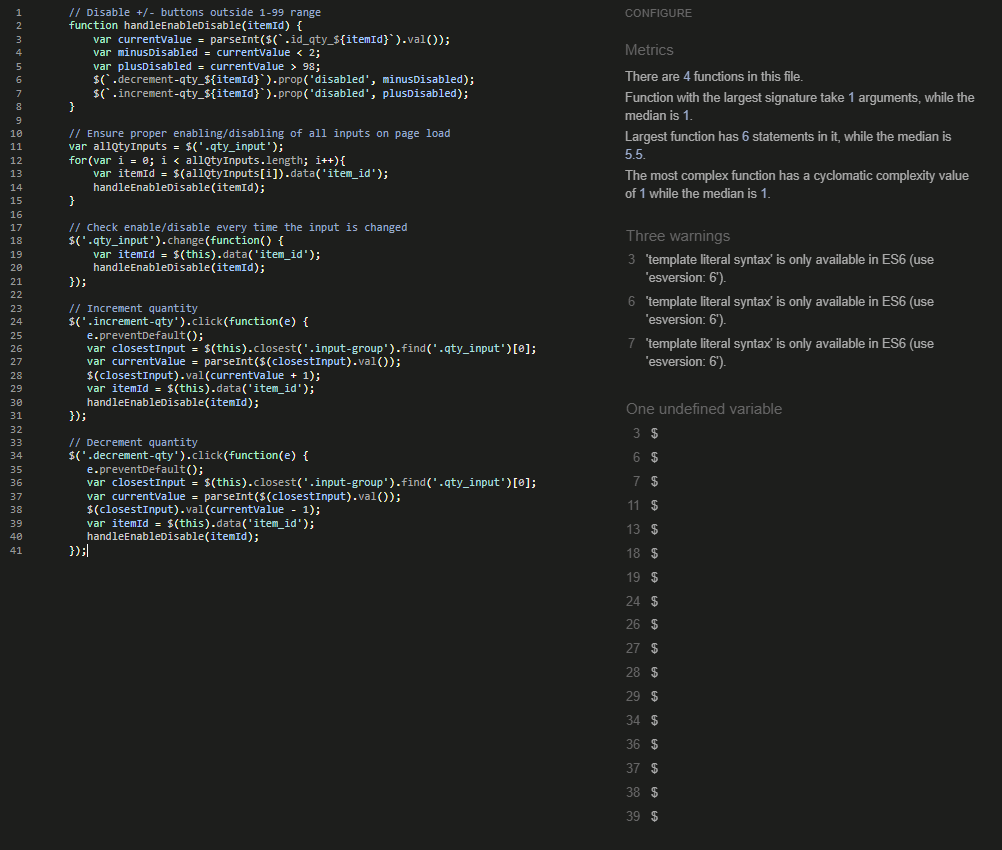
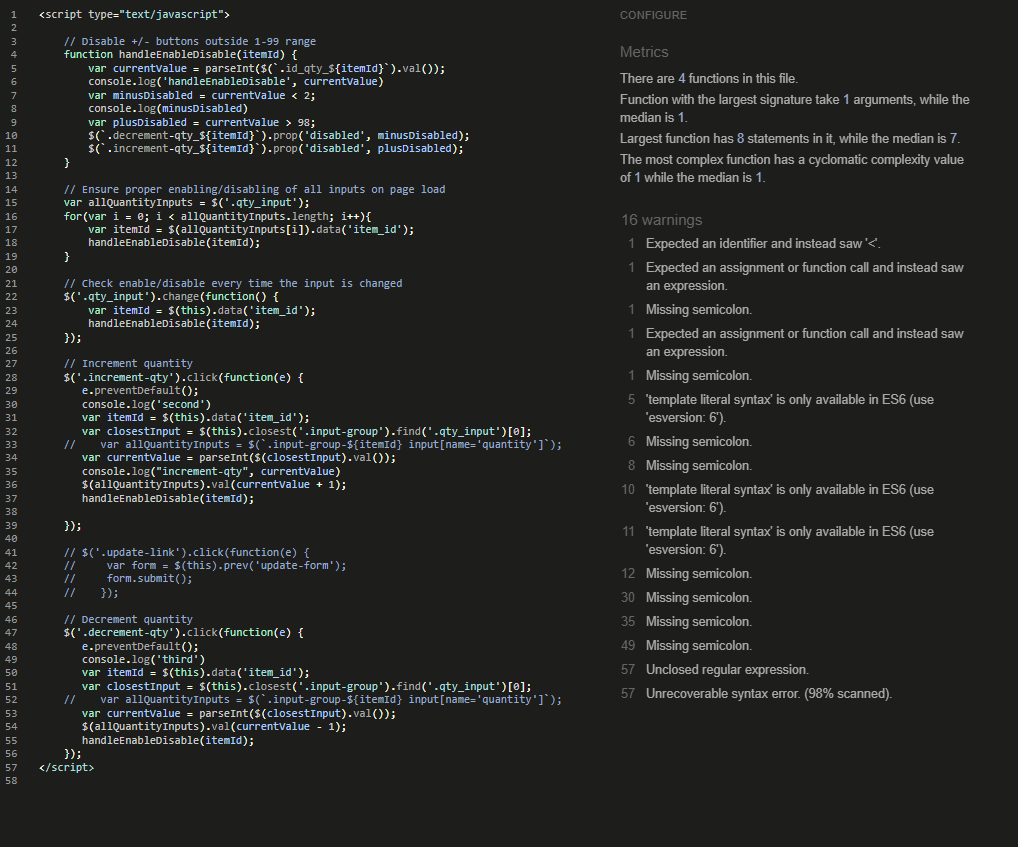
Bugfix: minus buttons on shopping bag page, readme deployment

Changed region(s): [[0.0, 0.0, 0.5259, 0.9209], [0.5878, 0.0, 0.99, 0.8288]]

diff --git a/products/templates/products/includes/quantity_input_script.html b/products/templates/products/includes/quantity_input_script.html
@@ -12,9 +12,9 @@
     }
 
     // Ensure proper enabling/disabling of all inputs on page load
-    var allQtyInputs = $('.qty_input');
-    for(var i = 0; i < allQtyInputs.length; i++){
-        var itemId = $(allQtyInputs[i]).data('item_id');
+    var allQuantityInputs = $('.qty_input');
+    for(var i = 0; i < allQuantityInputs.length; i++){
+        var itemId = $(allQuantityInputs[i]).data('item_id');
         handleEnableDisable(itemId);
     }
 
@@ -33,24 +33,25 @@
     //    var allQuantityInputs = $(`.input-group-${itemId} input[name='quantity']`);
        var currentValue = parseInt($(closestInput).val());
        console.log("increment-qty", currentValue)
-       $(closestInput).val(currentValue + 1);
+       $(allQuantityInputs).val(currentValue + 1);
        handleEnableDisable(itemId);
        
     });
 
+    // $('.update-link').click(function(e) {
+    //     var form = $(this).prev('update-form');
+    //     form.submit();
+    //    });
+
     // Decrement quantity
     $('.decrement-qty').click(function(e) {
        e.preventDefault();
-       $('.update-link').click(function(e) {
-        var form = $(this).prev('update-form');
-        form.submit();
-       });
        console.log('third')
        var itemId = $(this).data('item_id');
        var closestInput = $(this).closest('.input-group').find('.qty_input')[0];
     //    var allQuantityInputs = $(`.input-group-${itemId} input[name='quantity']`);
        var currentValue = parseInt($(closestInput).val());
-       $(closestInput).val(currentValue - 1);
+       $(allQuantityInputs).val(currentValue - 1);
        handleEnableDisable(itemId);
     });
 </script>

diff --git a/README.md b/README.md
@@ -407,6 +407,12 @@ Long-term:
 - Partnerships with authors for virtual events or Q&As
 - Participation in online book communities and forums
 
+<details><summary><b>Facebook Mockup</b></summary>
+
+![Facebook Mockup](readme/assets/images/wireframes/FB_mockup.PNG)
+
+</details><br/>
+
 </details><br/>
 
 </details><br/>
@@ -462,69 +468,86 @@ The database schema was created with [BugBytes](https://www.youtube.com/watch?v=
 # User Experience (UX)
 
 ## Wireframes
-The wireframes for the site were created in the software [Balsamiq](https://balsamiq.com). The wireframes have been created for desktop, tablet and mobile devices. The text content wasn't finalized during the wireframe process. Also I have decided to only focus on the user side since the admin frontend capabilities are less important for styling.
+The wireframes for the site were created in the software [Balsamiq](https://balsamiq.com). The wireframes have been created for desktop, tablet and mobile devices. The text content wasn't finalized during the wireframe process. Also I have decided to only focus on the user side since the admin frontend capabilities are less important for styling. For the Facebook mock up i have used the provided template from [Code Institute](https://codeinstitute.net/)
 
 <details><summary><b>Wireframes: Home</b></summary>
 
-![Wireframes Home Desktop](readme/assets/images/wireframes/home_d.PNG)
-![Wireframes Home Tablet](readme/assets/images/wireframes/home_t.PNG)
-![Wireframes Home Mobile](readme/assets/images/wireframes/home_m.PNG)
+![Wireframes Home Desktop](readme/assets/images/wireframes/home_wf.PNG)
+
+[Back to top](<#table-of-content>)
+
 </details><br/>
 
 <details><summary><b>Wireframes: Products</b></summary>
 
-![Wireframes Products Desktop](readme/assets/images/wireframes/)
-![Wireframes Products Tablet](readme/assets/images/wireframes/)
-![Wireframes Products Mobile](readme/assets/images/wireframes/)
+![Wireframes Products Desktop](readme/assets/images/wireframes/products_wf.PNG)
+
+[Back to top](<#table-of-content>)
+
 </details><br/>
 
 <details><summary><b>Wireframes: Product Detail View</b></summary>
 
-![Wireframes Product Detail View Desktop](readme/assets/images/wireframes/Detail_d.PNG)
-![Wireframes Product Detail View Tablet](readme/assets/images/wireframes/detail_t.PNG)
-![Wireframes Product Detail View Mobile](readme/assets/images/wireframes/detail_m.PNG)
+![Wireframes Product Detail View Desktop](readme/assets/images/wireframes/product_detail_wf.PNG)
+
+[Back to top](<#table-of-content>)
+
 </details><br/>
 
 <details><summary><b>Wireframes: Authors</b></summary>
 
-![Wireframes Authors Desktop](readme/assets/images/wireframes/)
-![Wireframes Authors Tablet](readme/assets/images/wireframes/)
-![Wireframes Authors Mobile](readme/assets/images/wireframes/)
+![Wireframes Authors Desktop](readme/assets/images/wireframes/authors_wf.PNG)
+
+[Back to top](<#table-of-content>)
+
 </details><br/>
 
 <details><summary><b>Wireframes: Profile</b></summary>
 
-![Wireframes Profile](readme/assets/images/wireframes/profile_d.PNG)
-![Wireframes Profile](readme/assets/images/wireframes/profile_t.PNG)
-![Wireframes Profile](readme/assets/images/wireframes/profile_m.PNG)
+![Wireframes Profile](readme/assets/images/wireframes/profile_wf.PNG)
+
+[Back to top](<#table-of-content>)
+
 </details><br/>
 
 <details><summary><b>Wireframes: About</b></summary>
 
-![Wireframes About Desktop](readme/assets/images/wireframes/about_d.PNG)
-![Wireframes About Tablet](readme/assets/images/wireframes/about_t.PNG)
-![Wireframes About Mobile](readme/assets/images/wireframes/about_m.PNG)
+![Wireframes About Desktop](readme/assets/images/wireframes/about_wf.PNG)
+
+[Back to top](<#table-of-content>)
+)
 </details><br/>
 
 <details><summary><b>Wireframes: FAQ</b></summary>
 
-![Wireframes FAQ Desktop](readme/assets/images/wireframes/)
-![Wireframes FAQ Tablet](readme/assets/images/wireframes/)
-![Wireframes FAQ Mobile](readme/assets/images/wireframes/)
+![Wireframes FAQ Desktop](readme/assets/images/wireframes/faq_wf.PNG)
+
+[Back to top](<#table-of-content>)
+
 </details><br/>
 
 <details><summary><b>Wireframes: Contact Us</b></summary>
 
-![Wireframes Contact Us Desktop](readme/assets/images/wireframes/)
-![Wireframes Contact Us Tablet](readme/assets/images/wireframes/)
-![Wireframes Contact Us Mobile](readme/assets/images/wireframesG)
+![Wireframes Contact Us Desktop](readme/assets/images/wireframes/contact_wf.PNG)
+
+[Back to top](<#table-of-content>)
+
 </details><br/>
 
 <details><summary><b>Wireframes: Newsletter</b></summary>
 
-![Wireframes Newsletter Desktop](readme/assets/images/wireframes/)
-![Wireframes Newsletter Tablet](readme/assets/images/wireframes/)
-![Wireframes Newsletter Mobile](readme/assets/images/wireframes/)
+![Wireframes Newsletter Desktop](readme/assets/images/wireframes/newsletter_wf.PNG)
+
+[Back to top](<#table-of-content>)
+
+</details><br/>
+
+<details><summary><b>Facebook Mockup</b></summary>
+
+![Facebook Mockup](readme/assets/images/wireframes/FB_mockup.PNG)
+
+[Back to top](<#table-of-content>)
+
 </details><br/>
 
 ## User Stories
@@ -549,7 +572,7 @@ The wireframes for the site were created in the software [Balsamiq](https://bals
 | As a Site User | I can edit the contents in the shopping cart so that I do not buy items or quantities I do not want | &check; |
 | As a Site User | I can proceed through an easy checkout process so that I can complete my purchase without problems | &check; |
 | As a Site User | I can safely process payments so that my financial information is secure | &check; |
-| As a Site User | I can enter and save my delivery information in my profile so that I can use it for future purchases |
+| As a Site User | I can enter and save my delivery information in my profile so that I can use it for future purchases | &check; |
 | As a Site User | I will get an email confirmation after a purchase so that I know the order has been placed and I get additional info about it | &check; |
 | As a Site User | I can reset my password so that I am not excluded from the page if I forgot my old password | &check; |
 | As a Site User | I can access a contact form so that I can submit questions or feedback to the bookstore | &check; |
@@ -1413,11 +1436,11 @@ On the admin panel, an admin can access all profiles, email addresses, order, pr
 
 ### Features
 
+* Adding the remaining user stories
 * Admin capability: Responding to contact requests via the website
-
 * Bugfixes (see "Bugs" section)
 * Adding a "Back to log in" button to the confirmation page which a user gets after resetting their password
-* Implementing some kind of discounts or loyalty rewards
+* Implementing some kind of discounts or loyalty rewards (user story)
 * Add a contact us modification so that the user gets the notification via email with their whole request
 * Change the Product model so that the cover is non nullable
 * Add e-books to the stores inventory
@@ -1677,7 +1700,10 @@ I want to make author friendly_name mandatory for added models Fix: make friendl
 ### Bugs from Boutique ADO
 
 **30.10.24**
-Minus quantity button does not work. Fix: in JS code, change targeted IDs to target classes -> change "#" to "." to target classes
+Minus quantity button does not work. Fix: in JS code, change targeted IDs to target classes -> change "#" to "." to target classes -> did not fix the issue:
+
+**13.11.2024**
+Finally fixed the quantity_input_form JS code with the help of Oisin from tutor support by rewriting all variables
 
 **11.11.2024**
 Validation errors:
@@ -1704,12 +1730,105 @@ All known bugs are supposed to be fixed before "Future Features" are going to be
 
 # Deployment
 
+## Deployment To Heroku
+
+The project was deployed to [Heroku](https://www.heroku.com). Given that this is the fifth project to deploy, I will not go over the steps on creating a project in detail, since the steps have been the same as for all django projects. For information on how to create a project, go to the readme of my [PP4](https://github.com/Mienjung97/PROject-GOLFblog). 
+
+To create a project, these are the steps:
+
+1. Create a workspace with the [Code Institute Full Template](https://github.com/Code-Institute-Org/ci-full-template)
+
+2. Install Django via console commands
+
+3. Add the packages to the "requirements.txt" file 
+
+4. Create the project
+
+5. Create the first app
+
+6. Add the app to the "INSTALLED_APPS" in the settings.py file
+
+7. Run the server and retireve your local url
+
+8. Add the local url to the "ALLOWED_HOSTS" area in the settings.py file
+
+9. Run the initial migrations
+
+Now, the project can be deployed to Heroku:
+
+1. Create a Database from [CI](https://dbs.ci-dbs.net/)
+
+2. Add your database information (see step 6, excluding the COLLECTSTATIC) to your env.py file and add the following code in the settings.py file:
+
+<details><summary><b>Heroku Deployment - Step 2</b></summary>
+
+![Heroku Deployment Step 2](readme/assets/images/deployment/database_settings_setup.PNG)
+</details><br />
+
+3. Prepare your project for deployment
+
+* Install *gunicorn*
+* Install *psycopg2*
+* Add the packages to the "requirements.txt" file 
+* Migrate all changes
+* *If* the project already has more apps, models and fixtures, also load the fixtures via *python3 manage.py loaddata "fixture name"*
+
+<details><summary><b>Heroku Deployment - Step 3</b></summary>
+
+![Heroku Deployment Step 3](readme/assets/images/deployment/my_install_2.PNG)
+
+![Heroku Deployment Step 3](readme/assets/images/deployment/my_install_1.PNG)
+</details><br />
+
+* Create a "Procfile" and add "web: gunicorn 'project name':application" in it
+* Change *Debug* in the settings.py file to *False*
+* Add "'.herokuapp.com'" to the "ALLOWED_HOSTS" area in the settings.py file
+* Commit the changes to Github
+
+4. Create a new heroku app
+
+<details><summary><b>Heroku Deployment - Step 4</b></summary>
+
+![Heroku Deployment Step 4](readme/assets/images/deployment/new_heroku.PNG)
+
+![Heroku Deployment Step 4](readme/assets/images/deployment/new_app_heroku.PNG)
+</details><br />
+
+5. Connect your Github repository to your new Heroku app
+
+<details><summary><b>Heroku Deployment - Step 5</b></summary>
+
+![Heroku Deployment Step 5](readme/assets/images/deployment/deploy_github_connect.PNG)
+</details><br />
+
+6. Add your secret key, *DISABLE_COLLECTSTATIC = 1* and your newly created DATABASE_URL to the Heroku Config Vars
+
+<details><summary><b>Heroku Deployment - Step 6</b></summary>
+
+![Heroku Deployment Step 6](readme/assets/images/deployment/add_database_config_vars.PNG)
+</details><br />
+
+7. Make your first manual deploy
+
+<details><summary><b>Heroku Deployment - Step 7</b></summary>
+
+![Heroku Deployment Step 7](readme/assets/images/deployment/manual_deploy.PNG)
+</details><br />
+
+Now, the basics of your project have been deployed to Heroku. In my case, I continued with my project until I had stripe, AWS, all fixtures and all working models ready. 
+
+The next step to complete the deployment is to create an AWS account and an S3 bucket. To create an account, you have to visit the [AWS website](https://aws.amazon.com/de/free/?gclid=CjwKCAiAudG5BhAREiwAWMlSjMCbGTv1ldd3uQuVgb76W5cnlECZ_byfnH2YGXwSWeKzQEnCoj3jYxoC2ukQAvD_BwE&trk=3f93bdb7-cca2-4053-94a7-a03fb33c9dfa&sc_channel=ps&ef_id=CjwKCAiAudG5BhAREiwAWMlSjMCbGTv1ldd3uQuVgb76W5cnlECZ_byfnH2YGXwSWeKzQEnCoj3jYxoC2ukQAvD_BwE:G:s&s_kwcid=AL!4422!3!696248420329!e!!g!!aws!19579657820!148952141007&all-free-tier.sort-by=item.additionalFields.SortRank&all-free-tier.sort-order=asc&awsf.Free%20Tier%20Types=*all&awsf.Free%20Tier%20Categories=*all) and follow the instructions to create the free tier account.
+
+The best summary on how to do create the bucket and user group was provided by the Code Institute tutor Oisin with the following tutorials:
+
+* [Create an AWS S3 Bucket](https://docs.google.com/document/d/1bqvCFiCW_JV9sllNZrN5uUJpIiusHICTk4TIk3oUWHY/edit?tab=t.0#heading=h.jypp4mbtvx4q)
+* [Create an AWS Group and User](https://docs.google.com/document/d/1z6L8KKiTi3QU5rMbHXhA3QR9jQIG7wLqnScUDpe238E/edit?tab=t.0#heading=h.1ixuny26uvc)
 
 # Credits
 
 ## Content
 
-* This Readme file has been taken from my PP4 "PROject GOLFacademy". The readme for my previous project was taken from [Marcus Erikssons PP4](https://github.com/worldofmarcus/project-portfolio-4/blob/main/README.md#existing-features) and modified by me to fit my project.
+* This Readme file has been taken from my PP4 "[ROject GOLFblog](https://github.com/Mienjung97/PROject-GOLFblog). The readme for my previous project was taken from [Marcus Erikssons PP4](https://github.com/worldofmarcus/project-portfolio-4/blob/main/README.md#existing-features) and modified by me to fit my project.
     * *Marcus Erikssons*: "Template for read.me provided by Code Institute (*with some additional changes that my mentor [Precious Ijege](https://www.linkedin.com/in/precious-ijege-908a00168/))* suggested."
 
 * My project **Books and Giggles** has started almost as a copy of the example project *Boutique ADO* and has been edited in most areas ever since, but especially the **Category**, **Checkout** and **Shopping bag** models, as well as the JS code has been almost unaltered.
